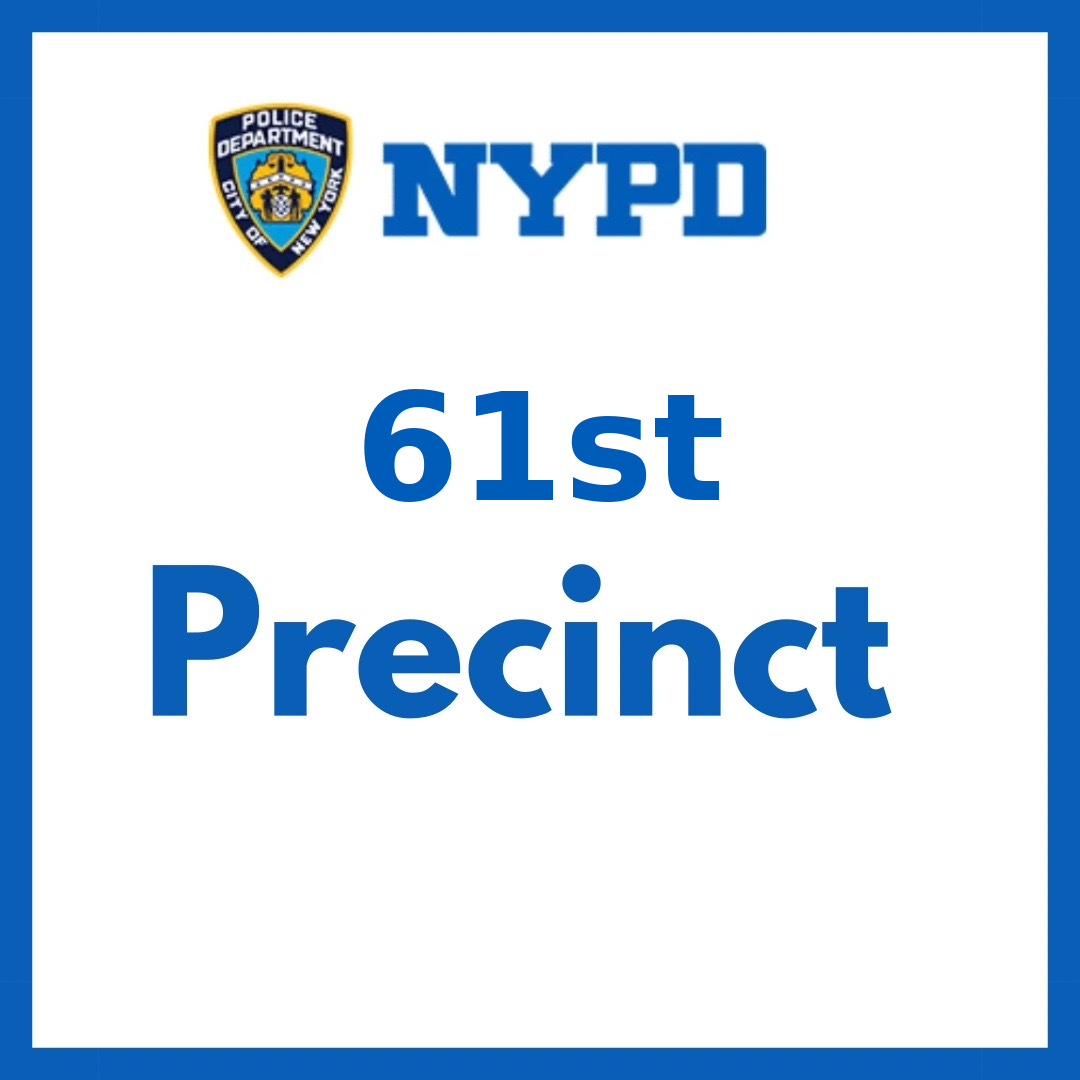
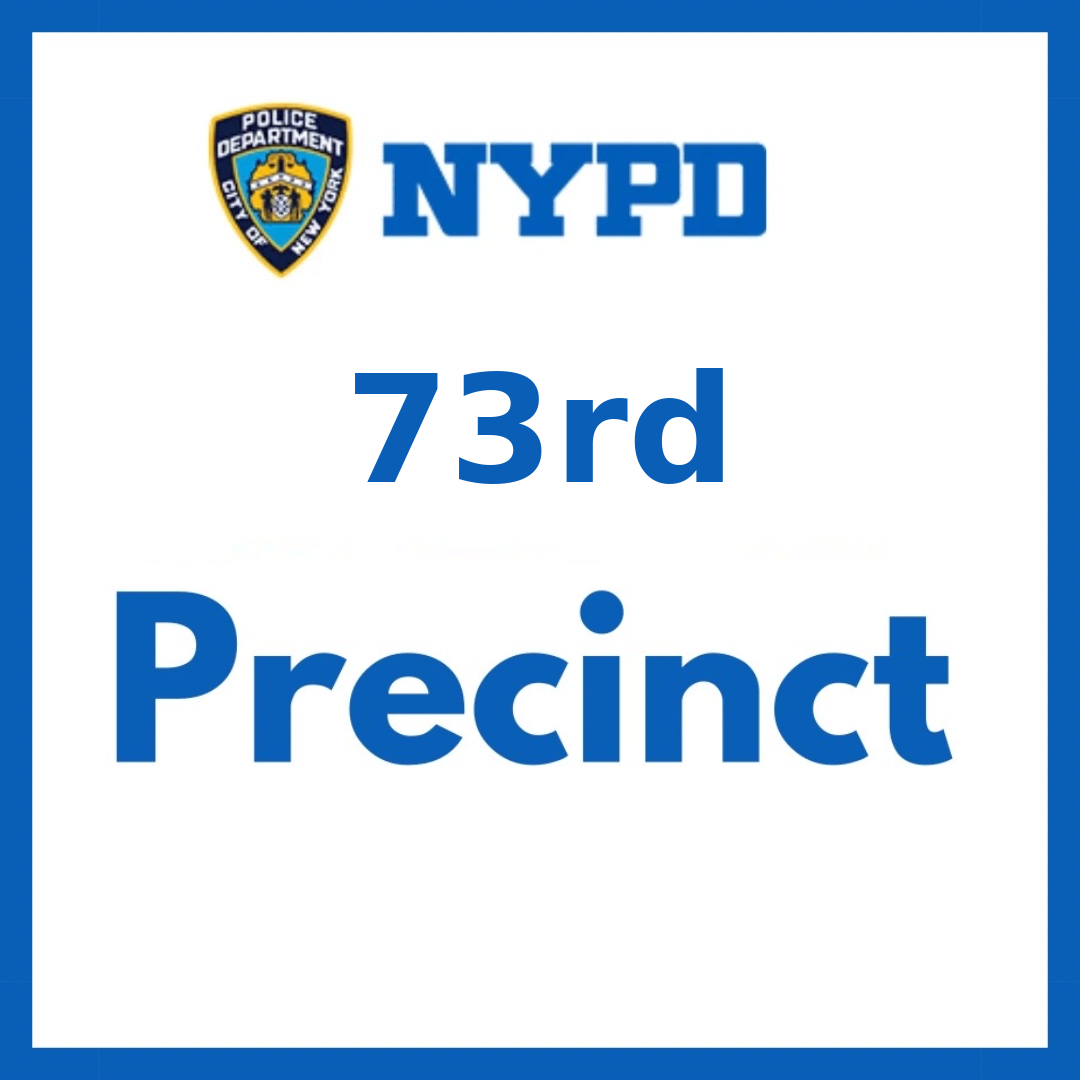
Fix 73rd Precinct card (file carried the 61st's text)
Claude-Session: https://claude.ai/code/session_01Paa6ygPS3wa9gUH45Dr2qn

Changed region(s): [[0.0917, 0.5194, 0.8861, 0.7333], [0.3056, 0.3361, 0.6722, 0.4889]]

diff --git a/sw.js b/sw.js
@@ -1,5 +1,5 @@
 // CB6 & Beyond — Service Worker
-const CACHE_VERSION = 'cb6-v1752';
+const CACHE_VERSION = 'cb6-v1753';
 const CORE_ASSETS = [
   '/',
   '/index.html',
